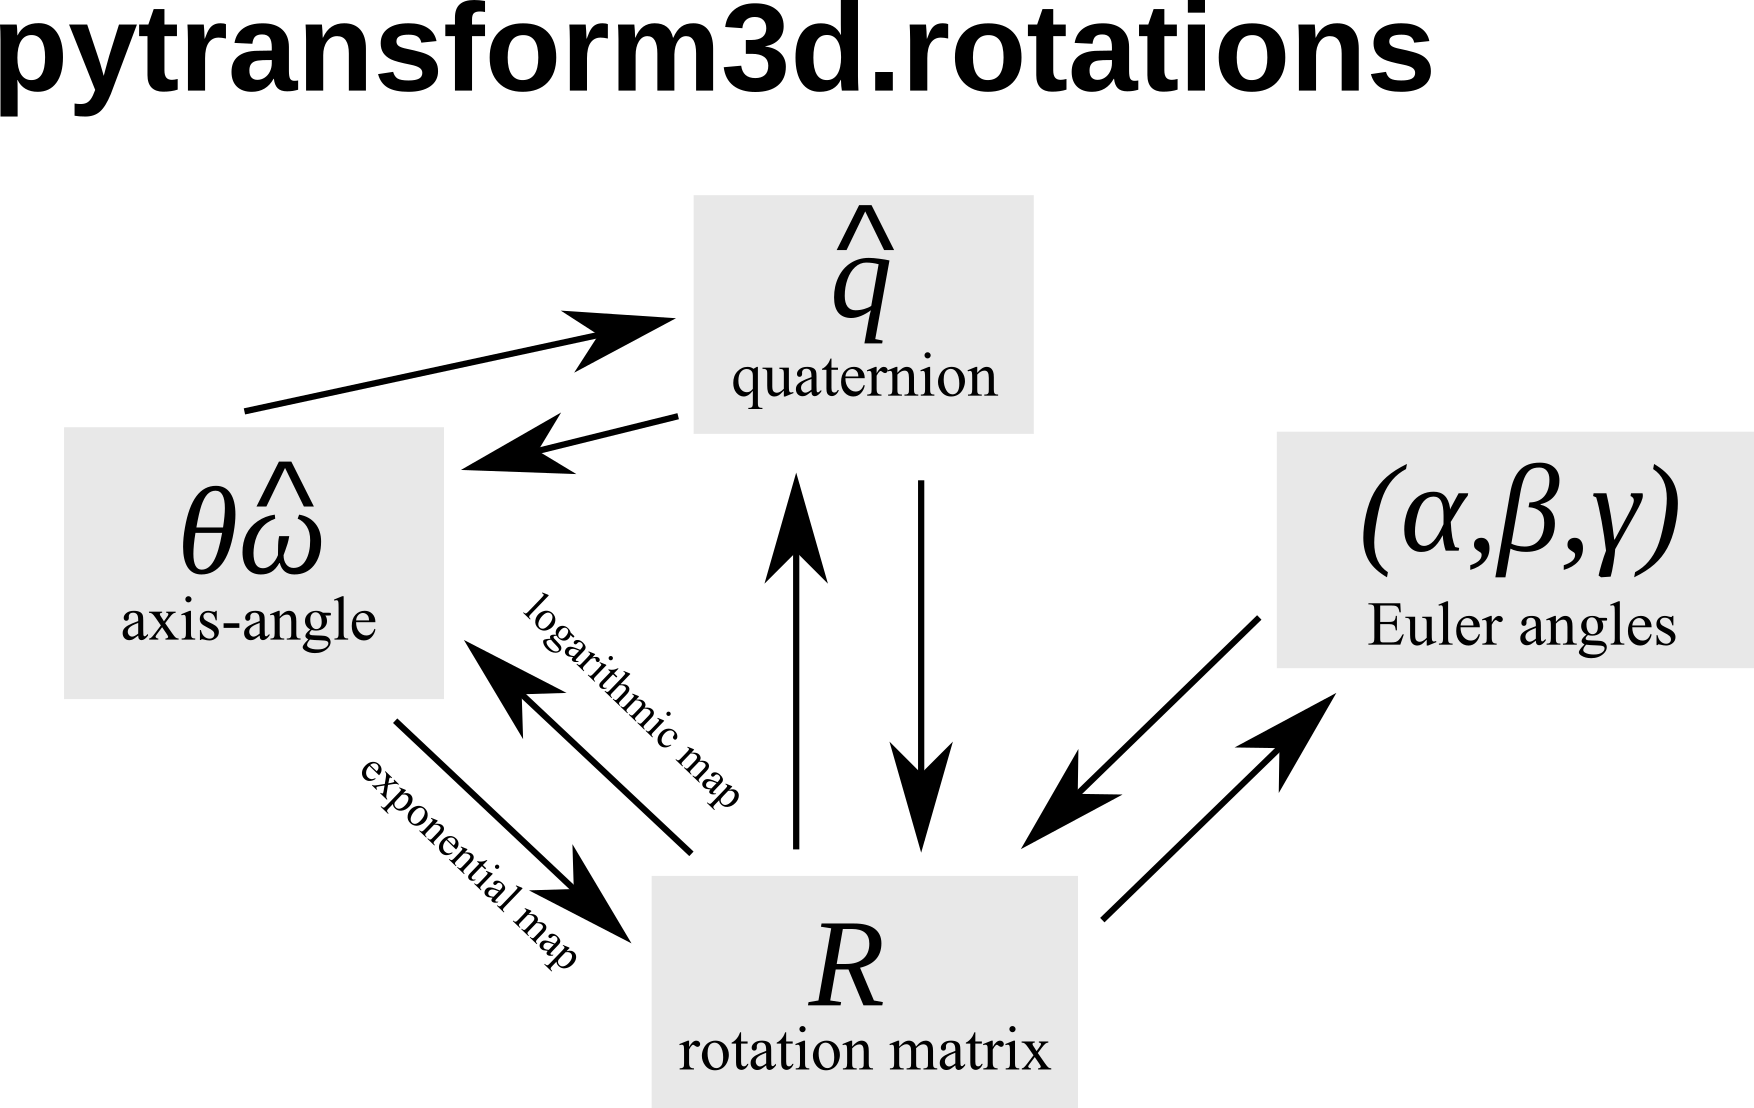
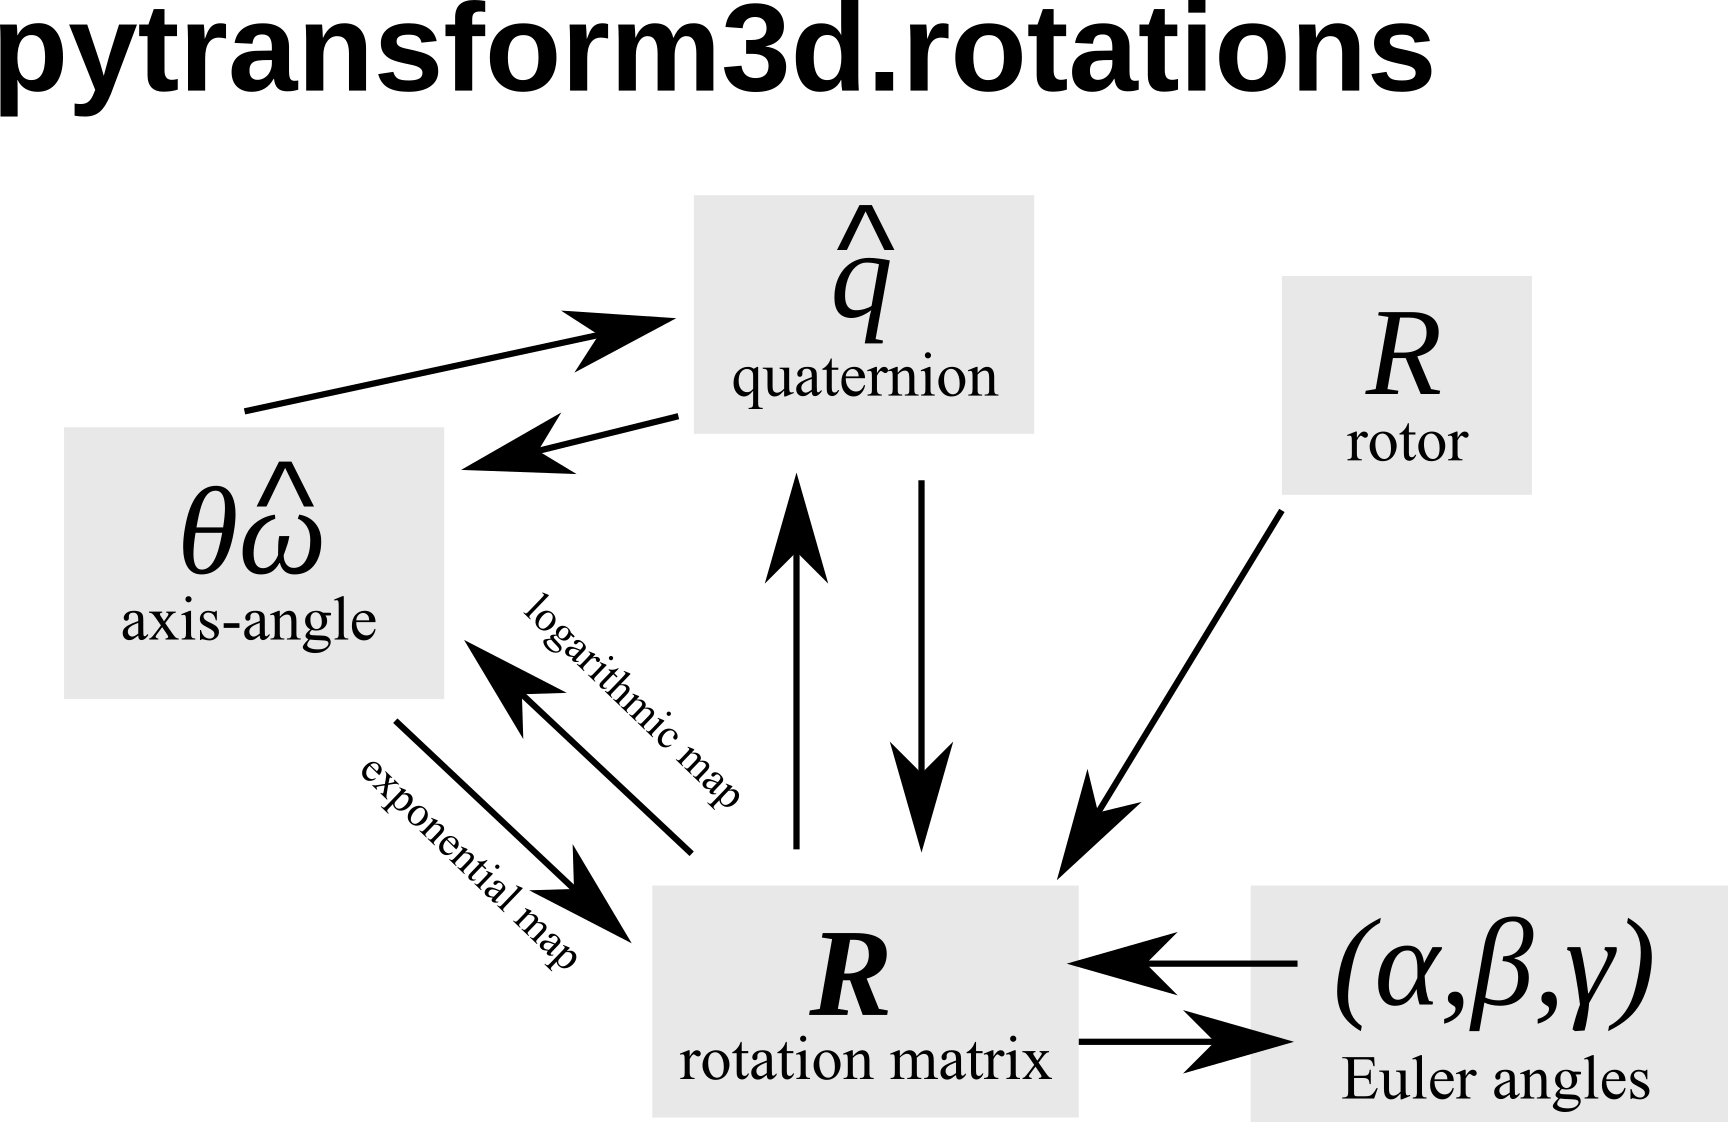
Update overviews, add operator overview

diff --git a/doc/source/rotations.rst b/doc/source/rotations.rst
@@ -21,6 +21,33 @@ that are available in pytransform3d.
    :width: 50%
    :align: center
 
+Not all representations support all operations directly without conversion to
+another representation. The following table is an overview. If the operation
+is not implemented in pytransform3d then it is shown in brackets.
+
++----------------------------------------+---------------+--------------------+---------------+---------------+
+| Representation                         | Inverse       | Rotation of vector | Concatenation | Interpolation |
++========================================+===============+====================+===============+===============+
+| Rotation matrix                        | Transpose     | Yes                | Yes           | No            |
+| :math:`\pmb{R}`                        |               |                    |               |               |
++----------------------------------------+---------------+--------------------+---------------+---------------+
+| Compact axis-angle                     | Negative      | No                 | No            | (Yes)         |
+| :math:`\pmb{\omega}`                   |               |                    |               |               |
++----------------------------------------+---------------+--------------------+---------------+---------------+
+| Axis-angle                             | Negative axis | No                 | No            | Yes           |
+| :math:`(\hat{\pmb{\omega}}, \theta)`   |               |                    |               |               |
++----------------------------------------+---------------+--------------------+---------------+---------------+
+| Logarithm of rotation                  | Negative      | No                 | No            | (Yes)         |
+| :math:`\left[\pmb{\omega}\right]`      |               |                    |               |               |
++----------------------------------------+---------------+--------------------+---------------+---------------+
+| Quaternion                             | Conjugate     | Yes                | Yes           | Yes           |
+| :math:`\pmb{q}`                        |               |                    |               |               |
++----------------------------------------+---------------+--------------------+---------------+---------------+
+| Rotor                                  | Reverse       | Yes                | Yes           | Yes           |
+| :math:`R`                              |               |                    |               |               |
++----------------------------------------+---------------+--------------------+---------------+---------------+
+
+
 ---------------
 Rotation Matrix
 ---------------

diff --git a/doc/source/notation.rst b/doc/source/notation.rst
@@ -54,6 +54,9 @@ representations on the following pages.
 | Quaternion                             | (4,)                | X        |             |
 | :math:`\pmb{q}`                        |                     |          |             |
 +----------------------------------------+---------------------+----------+-------------+
+| Rotor                                  | (4,)                | X        |             |
+| :math:`R`                              |                     |          |             |
++----------------------------------------+---------------------+----------+-------------+
 | Euler angles                           | (3,)                | X        |             |
 | :math:`(\alpha, \beta, \gamma)`        |                     |          |             |
 +----------------------------------------+---------------------+----------+-------------+
